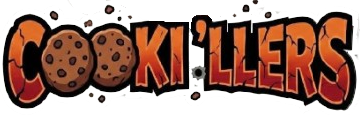
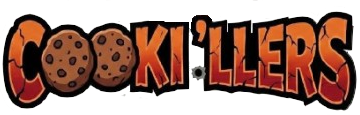
feat: align player columns, improve god mode panel, unify name casing, adjust tooltips, and polish buttons

diff --git a/src/components/GMDashboard.jsx b/src/components/GMDashboard.jsx
@@ -101,7 +101,8 @@ export default function GMDashboard() {
     if (username.toUpperCase() === "GM") return "GM";
     if (username.toUpperCase() === "SYSTEM") return "System";
     const found = gameState.players.find(p => p.name.toUpperCase() === username.toUpperCase());
-    return found ? (found.displayName || found.name) : username.charAt(0).toUpperCase() + username.slice(1).toLowerCase();
+    const raw = found ? (found.displayName || found.name) : username;
+    return raw.charAt(0).toUpperCase() + raw.slice(1).toLowerCase();
   };
   // Action : Le Chant du Coq
   const handleRoosterCrow = async () => {
@@ -902,25 +903,6 @@ export default function GMDashboard() {
                   <button type="submit" className="btn-cartoon btn-green" style={{ flex: 1, padding: "0.5rem" }}>
                     {editingDefi ? "Sauvegarder" : "Injecter"}
                   </button>
-                  {editingDefi && (
-                    <button
-                      type="button"
-                      className="btn-cartoon btn-red"
-                      style={{ flex: 1, padding: "0.5rem" }}
-                      onClick={() => {
-                        setEditingDefi(null);
-                        setDefiTitle("");
-                        setDefiDesc("");
-                        setDefiReward(100);
-                        setDefiDamage(1.5);
-                        setDefiZombieOnly(false);
-                        setDefiType("mission");
-                        setShowAddDefiForm(false);
-                      }}
-                    >
-                      Annuler
-                    </button>
-                  )}
                 </div>
               </div>
             </form>
@@ -946,14 +928,16 @@ export default function GMDashboard() {
                   onClick={() => handleStartEditDefi(a)}
                   title="Cliquer pour modifier ce défi"
                 >
-                  <div style={{ fontWeight: "bold", fontSize: "0.9rem" }}>{a.title} {a.isZombieOnly && "🧟"}</div>
+                  <div style={{ fontWeight: "bold", fontSize: "0.9rem" }}>
+                    {a.type === "fountain_action" ? "Action" : (a.type === "fountain_truth" ? "Vérité" : a.title)} {a.isZombieOnly && "🧟"}
+                  </div>
                   <div style={{ fontSize: "0.75rem", color: "#9ca3af", fontStyle: "italic" }}>{a.description}</div>
                   <div style={{ fontSize: "0.7rem", fontWeight: "bold", color: "#fbbf24", marginTop: "2px" }}>
                     {a.type === "mission" || !a.type ? `+${a.scoreReward} 🪙 | -${a.damagePenalty} ❤️` : `Soin : +${a.damagePenalty} ❤️`}
                   </div>
-                  {a.createdByPlayer && (
+                  {a.createdByPlayer && a.createdByPlayer.toUpperCase() !== "GM" && (
                     <span style={{ fontSize: "0.65rem", color: "var(--color-cyan)", display: "block", marginTop: "2px" }}>
-                      Proposé par {a.createdByPlayer}
+                      Proposé par {getPlayerDisplayName(a.createdByPlayer)}
                     </span>
                   )}
                 </div>
@@ -1083,12 +1067,20 @@ export default function GMDashboard() {
             Gestion Mode Dieu 👥
           </h2>
 
-          {editingPlayer ? (
-            <div style={{ border: "2px solid var(--color-purple)", padding: "12px", borderRadius: "12px", backgroundColor: "#1d1933", textAlign: "left" }}>
-              <h3 style={{ fontSize: "1.1rem", marginBottom: "8px", transform: "none", textShadow: "none" }}>Modifier {editingPlayer}</h3>
+          {editingPlayer ? (() => {
+            const p = gameState.players.find(pl => pl.name === editingPlayer);
+            const currentMission = p ? gameState.actionPool.find(a => a.id === p.actionId) : null;
+            const currentMissionTitle = currentMission ? currentMission.title : "Aucune";
+            return (
+              <div style={{ border: "2px solid var(--color-purple)", padding: "12px", borderRadius: "12px", backgroundColor: "#1d1933", textAlign: "left" }}>
+                <h3 style={{ fontSize: "1.1rem", marginBottom: "6px", transform: "none", textShadow: "none" }}>Modifier {getPlayerDisplayName(editingPlayer)}</h3>
+                <div style={{ fontSize: "0.85rem", color: "#9ca3af", marginBottom: "12px", borderBottom: "1px solid rgba(255,255,255,0.1)", paddingBottom: "8px" }}>
+                  <div>Cible : <strong>{p ? (getPlayerDisplayName(p.target) || "Aucune") : "Aucune"}</strong></div>
+                  <div style={{ marginTop: "4px" }}>Mission en cours : <strong>{currentMissionTitle}</strong></div>
+                </div>
               
               <div style={{ display: "flex", flexDirection: "column", gap: "10px" }}>
-                <div style={{ display: "flex", gap: "16px", alignItems: "center", flexWrap: "wrap", marginBottom: "8px" }}>
+                <div style={{ display: "flex", gap: "16px", alignItems: "center", justifyContent: "space-between", flexWrap: "wrap", marginBottom: "8px" }}>
                   <div style={{ display: "flex", alignItems: "center", gap: "8px" }}>
                     <span style={{ fontSize: "1.1rem", fontWeight: "bold" }}>🪙 :</span>
                     <div style={{ display: "flex", alignItems: "center", gap: "6px" }}>
@@ -1142,7 +1134,8 @@ export default function GMDashboard() {
                   </div>
                 </div>
 
-                <div style={{ display: "flex", gap: "20px", margin: "4px 0" }}>
+                <hr style={{ border: "none", borderTop: "1px solid rgba(255,255,255,0.1)", margin: "8px 0" }} />
+                <div style={{ display: "flex", gap: "20px", margin: "4px 0", justifyContent: "center" }}>
                   <label style={{ display: "flex", alignItems: "center", gap: "6px", fontSize: "0.8rem", cursor: "pointer" }}>
                     <input
                       type="checkbox"
@@ -1159,6 +1152,8 @@ export default function GMDashboard() {
                     /> Exfiltré (Gelé) ❄️
                   </label>
                 </div>
+
+                <hr style={{ border: "none", borderTop: "1px solid rgba(255,255,255,0.1)", margin: "8px 0" }} />
 
                 {/* Reset PIN de secours */}
                 <div style={{ display: "flex", flexDirection: "column", gap: "4px", marginTop: "4px" }}>
@@ -1177,6 +1172,8 @@ export default function GMDashboard() {
                   )}
                 </div>
 
+                <hr style={{ border: "none", borderTop: "1px solid rgba(255,255,255,0.1)", margin: "8px 0" }} />
+
                 <div style={{ display: "flex", gap: "8px", marginTop: "10px" }}>
                   <button type="button" className="btn-cartoon btn-green" style={{ flex: 1, padding: "0.5rem" }} onClick={handleGodSave}>Sauver</button>
                   <button type="button" className="btn-cartoon btn-red" style={{ flex: 1, padding: "0.5rem" }} onClick={() => handleRemovePlayer(editingPlayer)}>Bannir</button>
@@ -1184,7 +1181,8 @@ export default function GMDashboard() {
                 <button type="button" className="btn-cartoon" style={{ padding: "0.4rem", backgroundColor: "#4b5563" }} onClick={() => setEditingPlayer(null)}>Annuler</button>
               </div>
             </div>
-          ) : (
+            );
+          })() : (
             <div style={{ display: "flex", flexDirection: "column", gap: "8px" }}>
               {gameState.players.map((p) => (
                 <div
@@ -1211,15 +1209,15 @@ export default function GMDashboard() {
                 >
                   <div style={{ textAlign: "left" }}>
                     <div style={{ fontWeight: "bold" }}>
-                      {p.displayName || p.name} {p.isZombie && "🧟"} {p.isFrozen && "❄️"}
+                      {getPlayerDisplayName(p.name)} {p.isZombie && "🧟"} {p.isFrozen && "❄️"}
                     </div>
                     <span style={{ fontSize: "0.7rem", color: "#9ca3af" }}>
                       Cible : {getPlayerDisplayName(p.target) || "Aucune"}
                     </span>
                   </div>
-                  <div style={{ display: "flex", gap: "10px", fontSize: "0.9rem" }}>
-                    <span style={{ color: "#fbbf24" }}>{p.score} 🪙</span>
-                    <span>{p.isZombie ? "🧟" : `${p.lives} ❤️`}</span>
+                  <div style={{ display: "flex", gap: "12px", fontSize: "0.9rem", alignItems: "center" }}>
+                    <div style={{ color: "#fbbf24", width: "70px", textAlign: "right" }}>{p.score} 🪙</div>
+                    <div style={{ width: "75px", textAlign: "right" }}>{p.isZombie ? "🧟" : `${p.lives} ❤️`}</div>
                   </div>
                 </div>
               ))}

diff --git a/src/components/Leaderboard.jsx b/src/components/Leaderboard.jsx
@@ -13,6 +13,15 @@ export const getRank = (score) => {
 
 export default function Leaderboard({ players, history, isHelpActive, activeTooltip, triggerTooltip, setActiveTooltip }) {
   const { getHistoryProof } = useGame();
+
+  const getPlayerDisplayName = (username) => {
+    if (!username) return "";
+    if (username.toUpperCase() === "GM") return "GM";
+    if (username.toUpperCase() === "SYSTEM") return "System";
+    const found = players.find(p => p.name.toUpperCase() === username.toUpperCase());
+    const raw = found ? (found.displayName || found.name) : username;
+    return raw.charAt(0).toUpperCase() + raw.slice(1).toLowerCase();
+  };
   const [subTab, setSubTab] = useState("scores"); // scores, trophies, flux
   const [expandedPhoto, setExpandedPhoto] = useState(null);
   const [loadedProofs, setLoadedProofs] = useState({}); // { id: proofString }
@@ -111,7 +120,7 @@ export default function Leaderboard({ players, history, isHelpActive, activeTool
             fontSize: "1.2rem",
             filter: "drop-shadow(0 4px 6px rgba(0,0,0,0.3))"
           }}>
-            {player.name.slice(0, 2).toUpperCase()}
+            {getPlayerDisplayName(player.name).slice(0, 2).toUpperCase()}
           </div>
           {player.isZombie && (
             <>
@@ -124,7 +133,7 @@ export default function Leaderboard({ players, history, isHelpActive, activeTool
           )}
         </div>
         <span style={{ fontFamily: "var(--font-title)", fontSize: "0.85rem", textShadow: "1px 1px 0 #000", maxWidth: "80px", overflow: "hidden", textOverflow: "ellipsis", whiteSpace: "nowrap" }}>
-          {player.name}
+          {getPlayerDisplayName(player.name)}
         </span>
         <span style={{ fontSize: "0.8rem", color: "#fbbf24", fontWeight: "bold" }}>
           {player.effectiveScore} 🪙
@@ -166,7 +175,7 @@ export default function Leaderboard({ players, history, isHelpActive, activeTool
         return (
           <span>
             ⚔️ <strong>CONTRAT EXÉCUTÉ</strong><br/>
-            <strong>{evt.playerName}</strong> a validé un contrat sur <strong>{evt.targetName}</strong> !<br/>
+            <strong>{getPlayerDisplayName(evt.playerName)}</strong> a validé un contrat sur <strong>{getPlayerDisplayName(evt.targetName)}</strong> !<br/>
             <span style={{ color: "var(--color-purple)", fontSize: "0.85rem", fontWeight: "bold" }}>
               Difficulté : {diffLabel} (+{evt.scoreReward} 🪙 | -{evt.damagePenalty} ❤️)
             </span>
@@ -179,14 +188,14 @@ export default function Leaderboard({ players, history, isHelpActive, activeTool
       case "counter_attack_pending":
         return (
           <span style={{ fontStyle: "italic", color: "#9ca3af" }}>
-            ⚠️ Dénonciation en cours ! Le bureau des rumeurs examine l'accusation lancée par <strong>{evt.playerName}</strong>.
+            ⚠️ Dénonciation en cours ! Le bureau des rumeurs examine l'accusation lancée par <strong>{getPlayerDisplayName(evt.playerName)}</strong>.
           </span>
         );
       case "counter_attack_correct":
         return (
           <span>
             🛡️ <strong>ASSASSIN REPOUSSÉ</strong><br/>
-            <strong>{evt.playerName}</strong> a démasqué son traqueur ! La tentative d'assassinat échoue. L'action du tueur est brûlée.<br/>
+            <strong>{getPlayerDisplayName(evt.playerName)}</strong> a démasqué son traqueur ! La tentative d'assassinat échoue. L'action du tueur est brûlée.<br/>
             <span style={{ color: "#9ca3af", fontSize: "0.75rem", display: "flex", alignItems: "center", gap: "4px", marginTop: "2px" }}>
               <EyeOff size={12} /> L'identité du tueur et le défi restent anonymes.
             </span>
@@ -196,7 +205,7 @@ export default function Leaderboard({ players, history, isHelpActive, activeTool
         return (
           <span>
             ⚠️ <strong>ALERTE PARANOÏA</strong><br/>
-            <strong>{evt.playerName}</strong> a lancé une fausse accusation ! La paranoïa lui coûte cher.<br/>
+            <strong>{getPlayerDisplayName(evt.playerName)}</strong> a lancé une fausse accusation ! La paranoïa lui coûte cher.<br/>
             <span style={{ color: "var(--color-red)", fontSize: "0.85rem", fontWeight: "bold" }}>
               Pénalité : -0.5 ❤️
             </span>
@@ -212,7 +221,7 @@ export default function Leaderboard({ players, history, isHelpActive, activeTool
         return (
           <span>
             ⛲ <strong>SOIN SOURCE</strong><br/>
-            <strong>{evt.playerName}</strong> s'est ressourcé.<br/>
+            <strong>{getPlayerDisplayName(evt.playerName)}</strong> s'est ressourcé.<br/>
             <span style={{ color: "var(--color-green)", fontSize: "0.85rem", fontWeight: "bold" }}>
               {tierLabel} (+{Math.abs(evt.damagePenalty)} ❤️)
             </span>
@@ -256,7 +265,7 @@ export default function Leaderboard({ players, history, isHelpActive, activeTool
         return (
           <span>
             🧟 <strong>MORSURE ZOMBIE</strong><br/>
-            Un zombie a mordu <strong>{evt.targetName}</strong> ! Le zombie ressuscite et vole <strong>50 🪙</strong>.<br/>
+            Un zombie a mordu <strong>{getPlayerDisplayName(evt.targetName)}</strong> ! Le zombie ressuscite et vole <strong>50 🪙</strong>.<br/>
             <span style={{ color: "var(--color-red)", fontSize: "0.85rem", fontWeight: "bold" }}>
               Victime : -1.0 ❤️ | -50 🪙
             </span>
@@ -497,7 +506,7 @@ export default function Leaderboard({ players, history, isHelpActive, activeTool
                         overflow: "hidden",
                         flexShrink: 0
                       }}>
-                        {player.name.slice(0, 2).toUpperCase()}
+                        {getPlayerDisplayName(player.name).slice(0, 2).toUpperCase()}
                         {player.isZombie && (
                           <div style={{ position: "absolute", top: 0, left: 0, width: "100%", height: "100%", display: "flex", alignItems: "center", justifyContent: "center", zIndex: 5, pointerEvents: "none" }}>
                             <div style={{ position: "absolute", width: "100%", height: "3px", backgroundColor: "var(--color-red)", transform: "rotate(45deg)", border: "0.5px solid #000" }} />
@@ -507,7 +516,7 @@ export default function Leaderboard({ players, history, isHelpActive, activeTool
                       </div>
                       <div style={{ display: "flex", flexDirection: "column" }}>
                         <span style={{ fontWeight: "bold", fontSize: "1rem", display: "flex", alignItems: "center", gap: "6px" }}>
-                          {player.name}
+                          {getPlayerDisplayName(player.name)}
                           {player.isZombie && <span>🧟</span>}
                           {player.isFrozen && <span title="Gelé / Exfiltré">❄️</span>}
                         </span>

diff --git a/src/components/PlayerDashboard.jsx b/src/components/PlayerDashboard.jsx
@@ -108,7 +108,8 @@ export default function PlayerDashboard() {
     if (username.toUpperCase() === "GM") return "GM";
     if (username.toUpperCase() === "SYSTEM") return "System";
     const found = gameState.players.find(p => p.name.toUpperCase() === username.toUpperCase());
-    return found ? (found.displayName || found.name) : username.charAt(0).toUpperCase() + username.slice(1).toLowerCase();
+    const raw = found ? (found.displayName || found.name) : username;
+    return raw.charAt(0).toUpperCase() + raw.slice(1).toLowerCase();
   };
 
   // Onglets : 'contrat', 'source', 'suggestion', 'classement'
@@ -1440,8 +1441,8 @@ export default function PlayerDashboard() {
                       onClick={() => triggerTooltip("fountain_draw")} 
                       style={{ 
                         position: "absolute", 
-                        top: "-10px", 
-                        right: "-10px", 
+                        top: "4px", 
+                        right: "4px", 
                         backgroundColor: "var(--color-cyan)", 
                         color: "#000", 
                         borderRadius: "50%", 
@@ -1560,8 +1561,8 @@ export default function PlayerDashboard() {
               onClick={() => triggerTooltip("suggest_form")} 
               style={{ 
                 position: "absolute", 
-                top: "-10px", 
-                right: "-10px", 
+                top: "4px", 
+                right: "4px", 
                 backgroundColor: "var(--color-cyan)", 
                 color: "#000", 
                 borderRadius: "50%", 
@@ -2329,7 +2330,7 @@ export default function PlayerDashboard() {
                     setShowSkipConfirmModal(false);
                   }}
                 >
-                  Confirmer 🌀
+                  Confirmer
                 </button>
                 <button
                   type="button"

diff --git a/src/App.jsx b/src/App.jsx
@@ -124,11 +124,13 @@ function MainAppContent() {
       if (pin.length !== 4) return;
       try {
         if (isRegistering) {
-          await registerPlayer(nickname, pin);
-          showToast(`Bienvenue au campement, ${nickname} ! 🏕️`);
+          const registeredName = await registerPlayer(nickname, pin);
+          const greetName = registeredName.charAt(0).toUpperCase() + registeredName.slice(1).toLowerCase();
+          showToast(`Bienvenue au campement, ${greetName} ! 🏕️`);
         } else {
-          await loginPlayer(nickname, pin);
-          showToast(`Heureux de te revoir, ${nickname} ! 🔪`);
+          const loggedName = await loginPlayer(nickname, pin);
+          const greetName = loggedName.charAt(0).toUpperCase() + loggedName.slice(1).toLowerCase();
+          showToast(`Heureux de te revoir, ${greetName} ! 🔪`);
         }
       } catch (err) {
         setError(err.message);